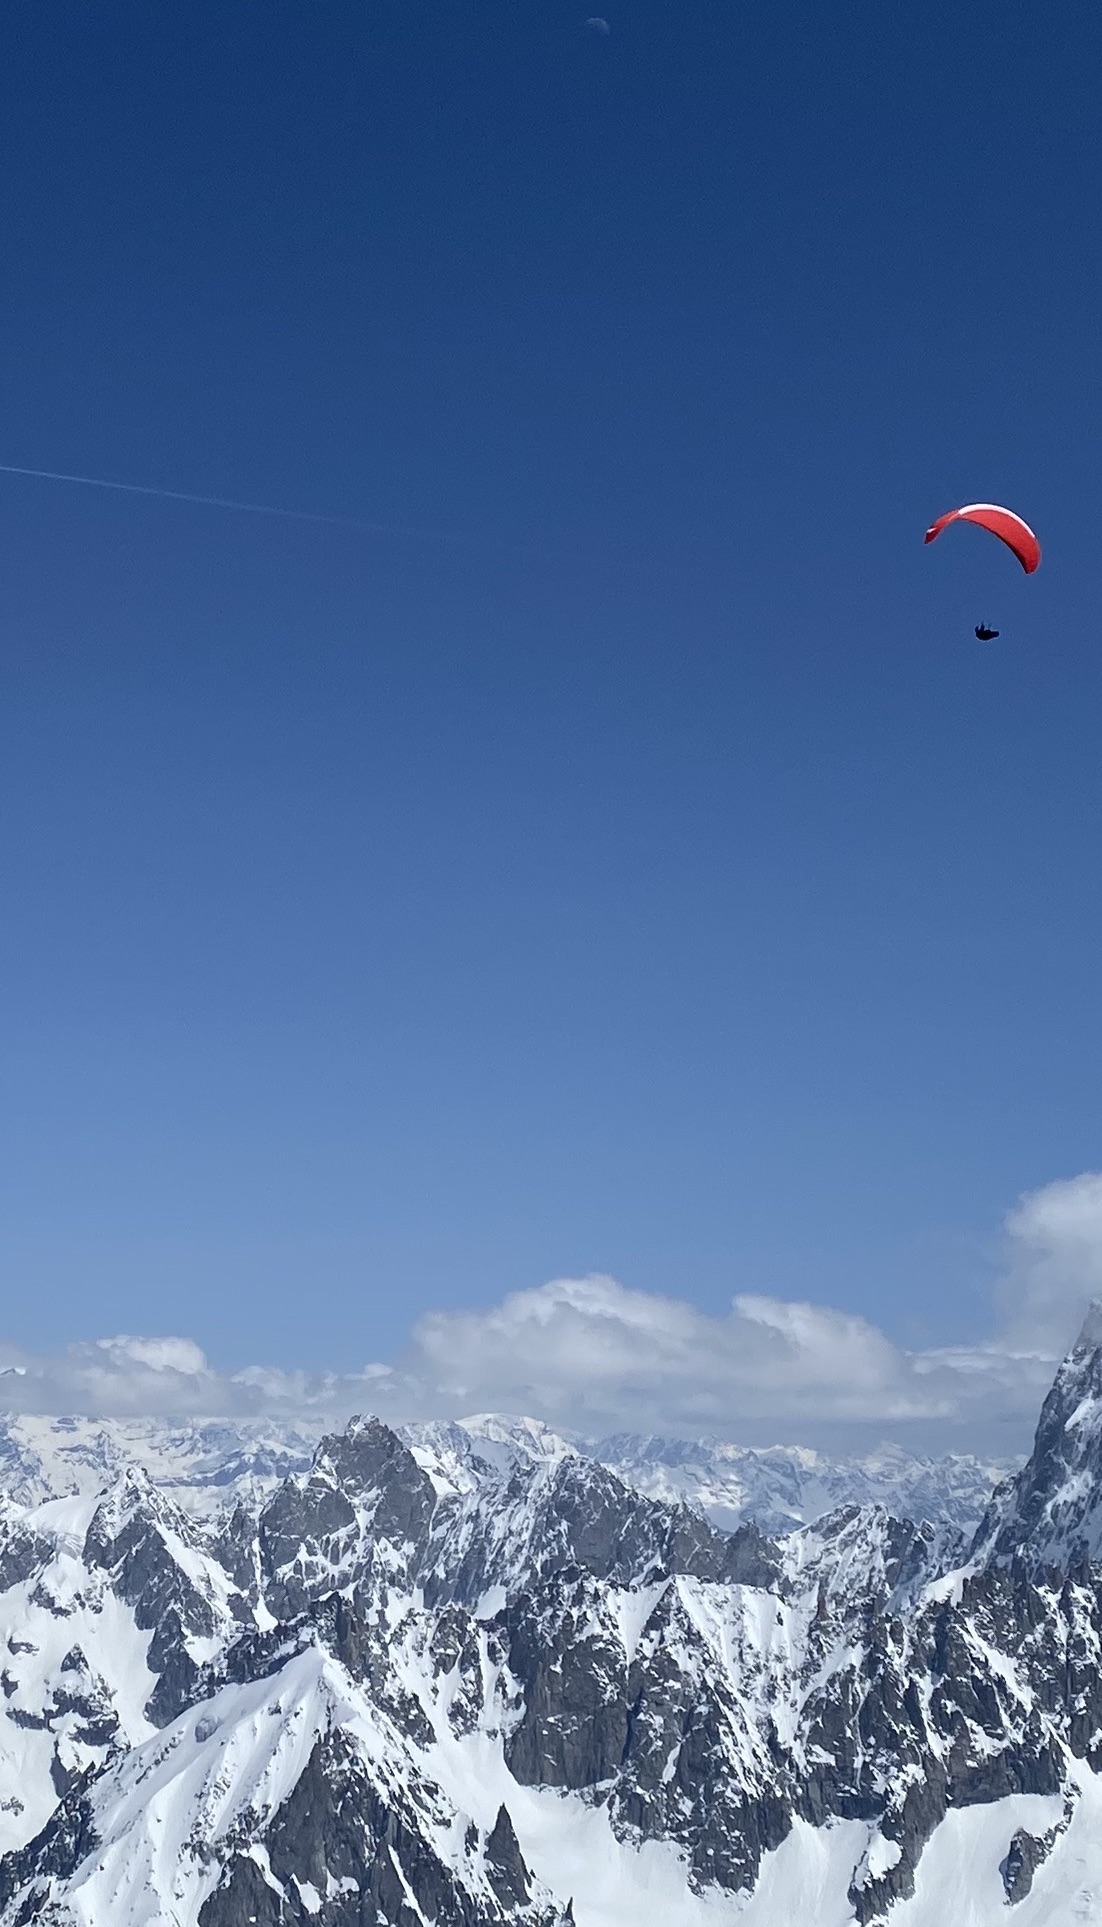
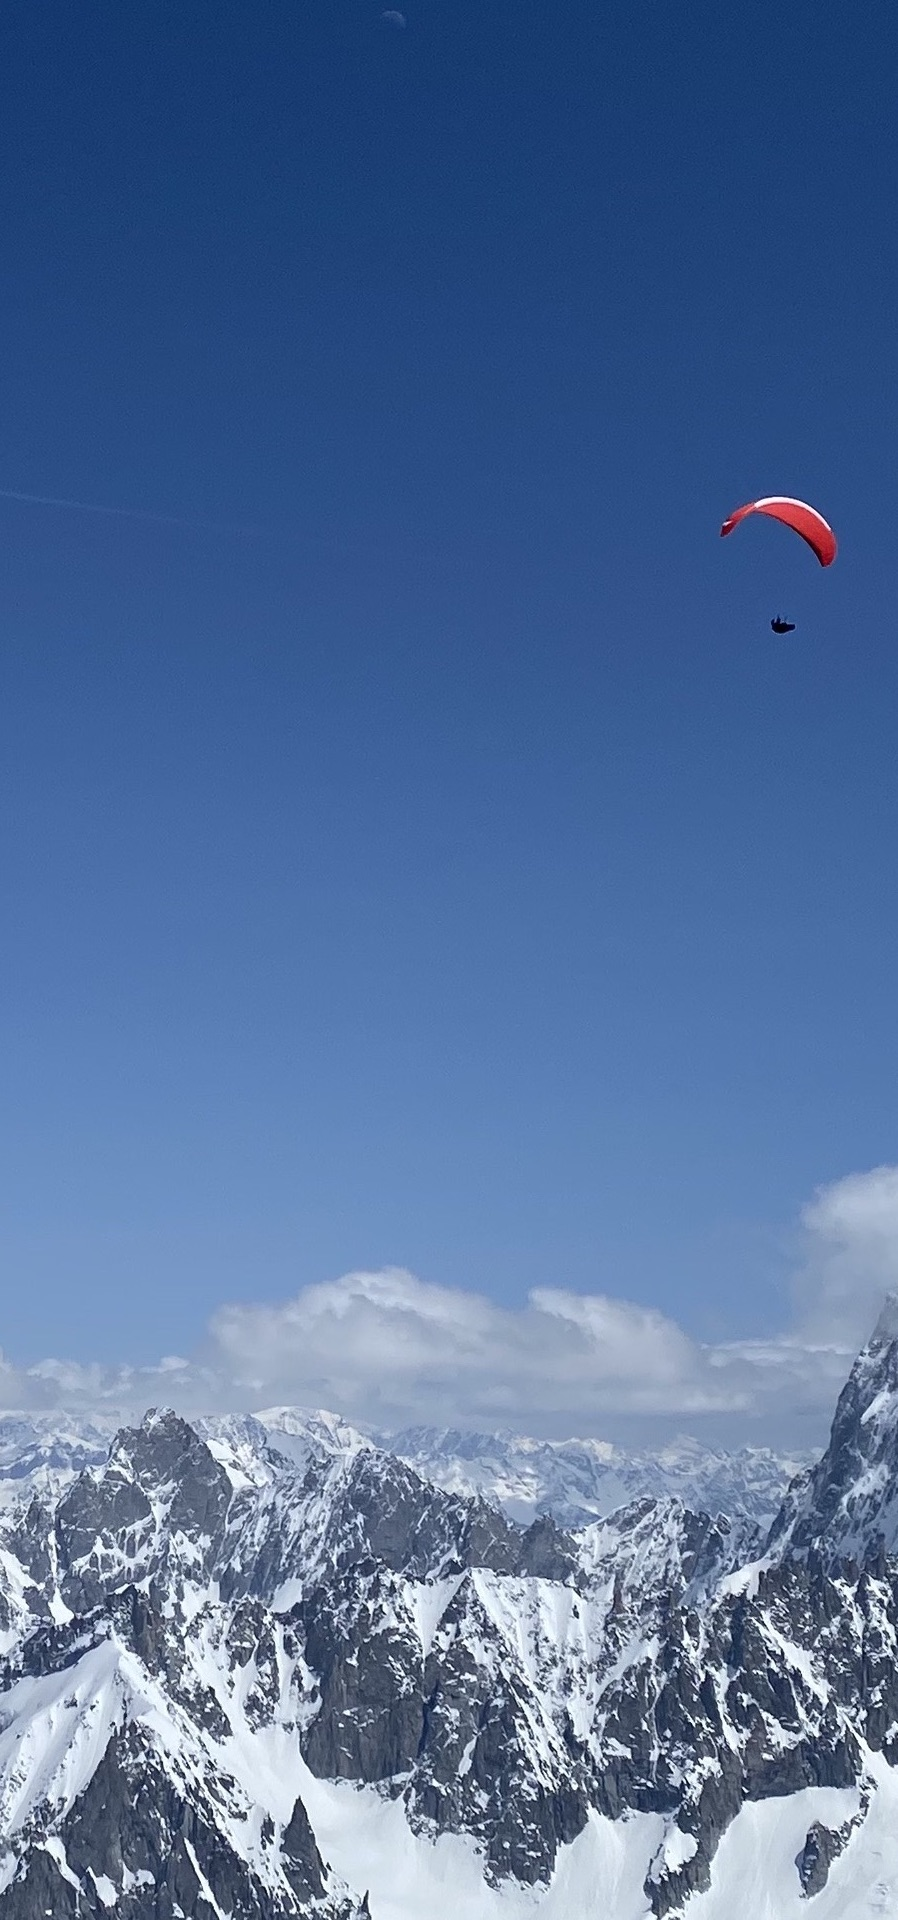
change image dimensions, fix rounding and margins

diff --git a/styles/Header.css b/styles/Header.css
@@ -52,8 +52,10 @@
   
  /* Responsive Design */
 @media only screen and (max-width: 600px) {
+   
     .header-content h1 {
       font-size: 3rem;
+
     }
   
     .header-content img {
@@ -74,6 +76,7 @@
     .social-icons-header img {
         width: 50px;
         height: 50px;
+        margin-bottom: 10em;
       }
   }
   

diff --git a/styles/About.css b/styles/About.css
@@ -10,6 +10,8 @@
   /* Responsive padding */
   @media only screen and (max-width: 600px) {
     .about-section {
+      border-top-left-radius: 0px;
+      border-top-right-radius: 0px;
       padding: 1rem;
     }
   }

diff --git a/styles/global.css b/styles/global.css
@@ -41,7 +41,7 @@ body {
     background-size: cover;
     height: 100vh;
     width: 100vw;
-    
+    background-repeat:repeat-y;
   }
 }
 
